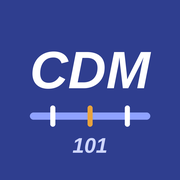
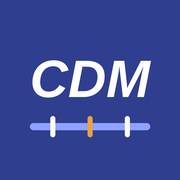
Add files via upload

Changed region(s): [[0.1667, 0.2778, 0.8611, 0.5556], [0.1667, 0.5833, 0.8333, 0.8611]]

diff --git a/acdm/index.html b/acdm/index.html
@@ -6,11 +6,11 @@
 <meta name="apple-mobile-web-app-capable" content="yes">
 <meta name="mobile-web-app-capable" content="yes">
 <meta name="apple-mobile-web-app-status-bar-style" content="default">
-<meta name="apple-mobile-web-app-title" content="A-CDM 101">
+<meta name="apple-mobile-web-app-title" content="A-CDM">
 <meta name="theme-color" content="#2F3E8F">
 <link rel="manifest" href="manifest.json">
 <link rel="apple-touch-icon" href="icon-180.png">
-<title>A-CDM 101</title>
+<title>A-CDM</title>
 <style>
 :root{
   --navy:#1B2A4A; --accent:#2F3E8F; --gray:#5b5f66; --line:#e2e5ea;
@@ -123,9 +123,9 @@ table.t th{background:var(--soft); color:var(--navy);}
 <body>
 <div class="wrap">
   <div class="header">
-    <h1>A-CDM 101</h1>
+    <h1>A-CDM</h1>
     <p>Airport Collaborative Decision Making — for crews and dispatchers</p>
-    <p class="appver" style="font-size:11.5px;margin-top:3px;opacity:.85">v1 · 28/09/2026</p>
+    <p class="appver" style="font-size:11.5px;margin-top:3px;opacity:.85">v2 · 29/09/2026</p>
   </div>
   <div class="tabs" id="tabs">
     <button data-v="basics" class="on">Basics</button>
@@ -397,7 +397,7 @@ table.t th{background:var(--soft); color:var(--navy);}
   </div>
 </section>
 
-<div class="foot">A-CDM 101 · study aid only — not an operational document. Based on the EUROCONTROL Specification for A-CDM Ed. 1.0 (2025), NM DPI Implementation Guide and published airport A-CDM briefings. Local procedures prevail.<br>LR Aviation · lraviation.com.br</div>
+<div class="foot">A-CDM · study aid only — not an operational document. Based on the EUROCONTROL Specification for A-CDM Ed. 1.0 (2025), NM DPI Implementation Guide and published airport A-CDM briefings. Local procedures prevail.<br>LR Aviation · lraviation.com.br</div>
 </div>
 
 <script>

diff --git a/acdm/sw.js b/acdm/sw.js
@@ -1,4 +1,4 @@
-const CACHE = 'lr-acdm-v1';
+const CACHE = 'lr-acdm-v2';
 const FILES = ['./', './index.html', './manifest.json', './icon-180.png', './icon-192.png', './icon-512.png'];
 self.addEventListener('install', e => { e.waitUntil(caches.open(CACHE).then(c => c.addAll(FILES))); self.skipWaiting(); });
 self.addEventListener('activate', e => {
